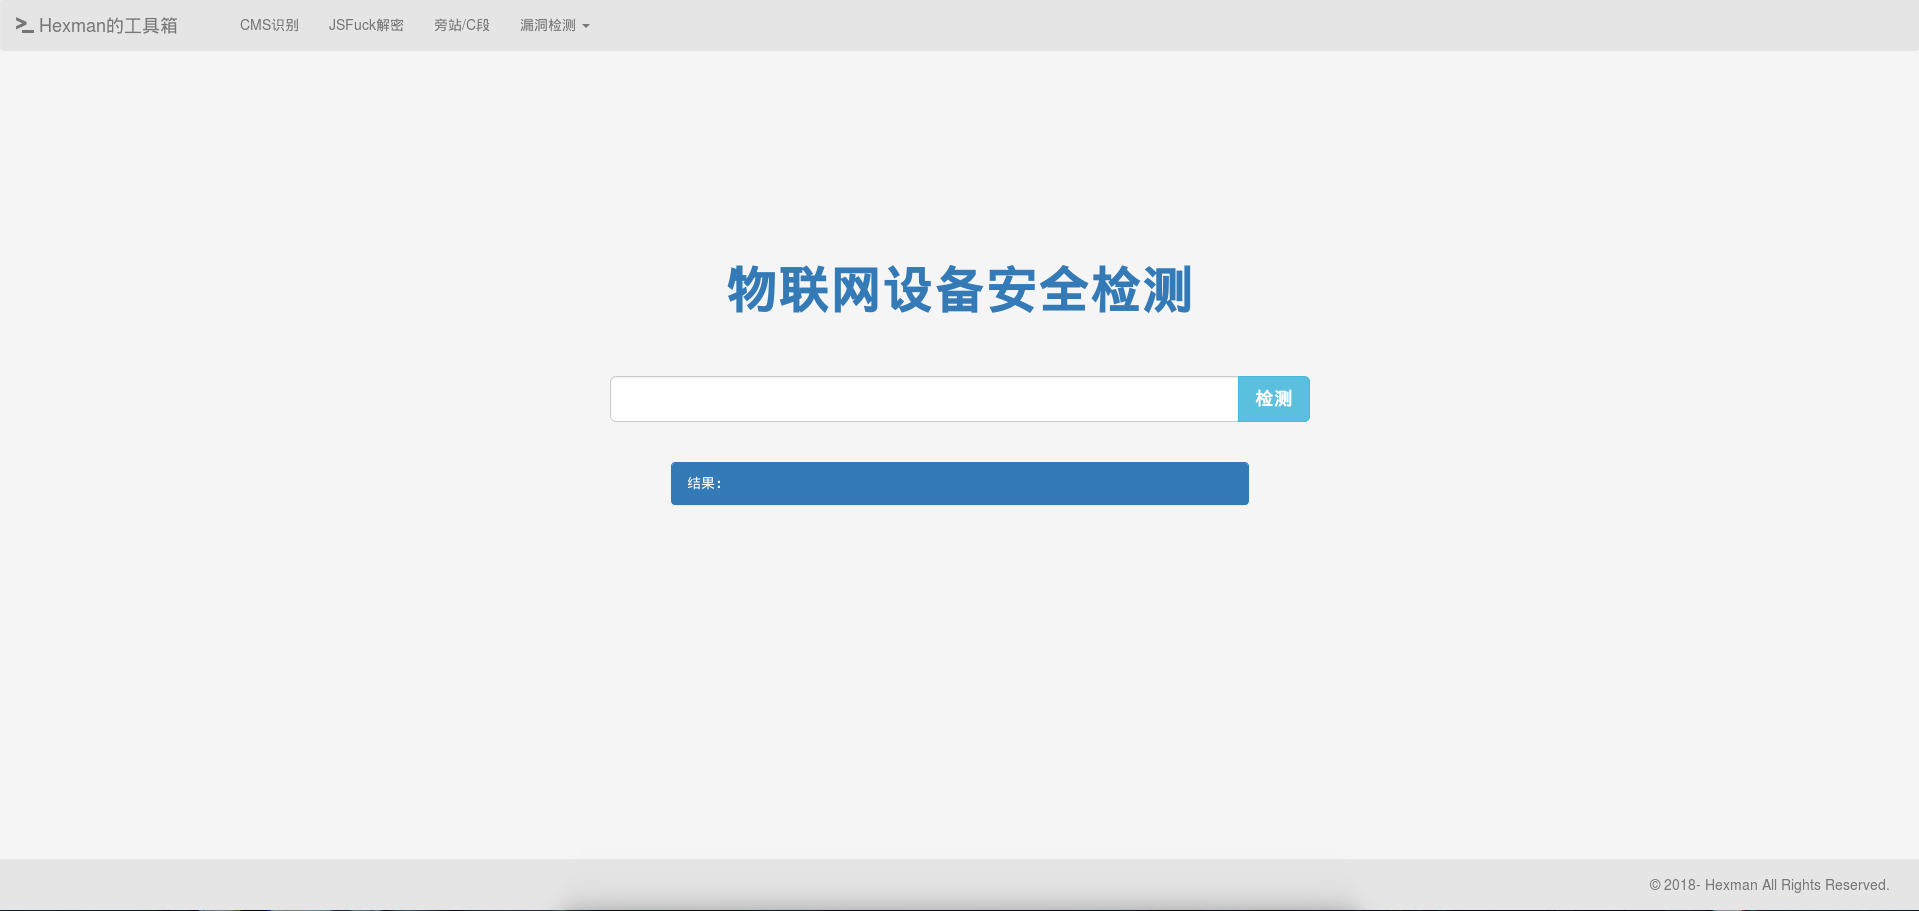
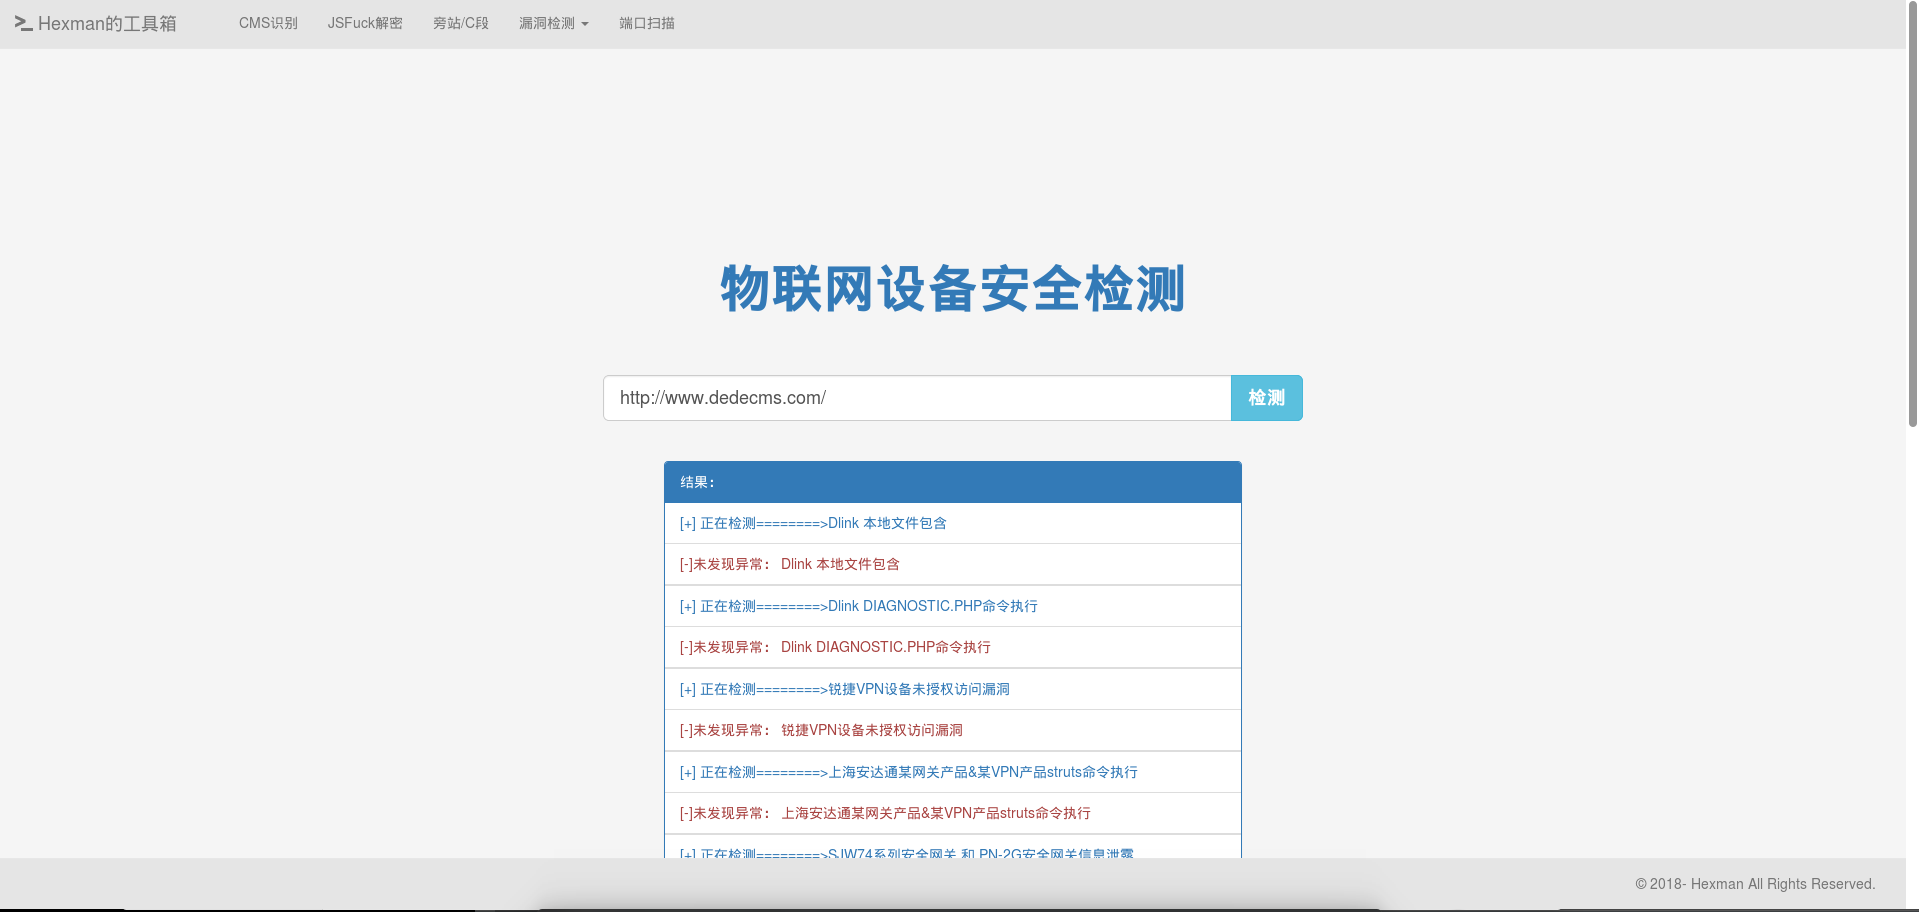
修复页面显示bug&实现异步非阻塞请求

diff --git a/cmsscan/templates/getdomain.html b/cmsscan/templates/getdomain.html
@@ -33,7 +33,7 @@
 					<div class="panel-heading" id="result">
 						结果：
 					</div>
-                    <table class="table table-hover">
+                    <table class="table table-hover" >
                         <thead>
                             <tr>
                                 <th>#</th>
@@ -106,6 +106,8 @@ function furl2ip(url){
 
 $(function() {
     $("#pang").click(function() {
+        add_res=""
+        $("#t_body").html("")
         if(ip){
             $("#result").html("结果：  "+ip)
             request(ip)
@@ -115,6 +117,8 @@ $(function() {
     });
 
     $("#cadd").click(function() {
+        add_res=""
+        $("#t_body").html("")
         var arr = ip.split(".");
         if(ip){
             $("#result").html("结果：  "+ip)

diff --git a/cmsscan/templates/base.html b/cmsscan/templates/base.html
@@ -20,13 +20,13 @@
     </style>
 </head>
 
-<div class="navbar navbar-default">
+<div class="navbar navbar-default navbar-fixed-top" role="navigation">
     <!-- 导航条标题-->
   　<div class="navbar-header">
   　    <a href="/" class="navbar-brand"><span class="glyphicon glyphicon-console" aria-hidden="true"></span>&nbsp;Hexman的工具箱</a>
   　</div>
   <!-- 基础导航条-->
-  <ul class="nav navbar-nav">
+  <ul class="nav navbar-nav ">
       <li><a href="/whatcms">CMS识别</a></li>
       <li><a href="/jsfuck">JSFuck解密</a></li>
       <li><a href="/getdomain">旁站/C段</a></li>

diff --git a/main.py b/main.py
@@ -1,5 +1,10 @@
 from cmsscan import app
+from cmsscan import config
+from gevent import monkey
+from gevent.pywsgi import WSGIServer
+monkey.patch_all()
 
 
 if __name__ == '__main__':
-    app.run(debug=True)
+    http_server = WSGIServer(('127.0.0.1', 8000), app)
+    http_server.serve_forever()

diff --git a/cmsscan/config.py b/cmsscan/config.py
@@ -1,0 +1,2 @@
+from . import app
+app.config.update(DEBUG=True)
